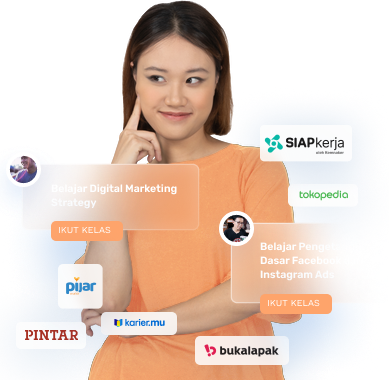
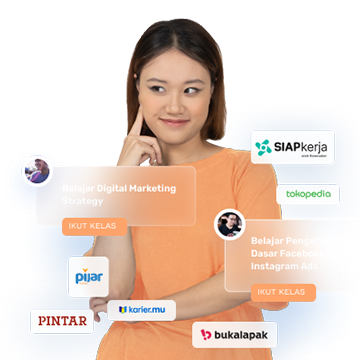
Kamis 8 Juni 2023

Changed region(s): [[0.0611, 0.0, 0.9472, 1.0], [0.0, 0.3972, 0.1528, 0.5194], [0.6111, 0.4583, 0.6417, 0.4889]]

diff --git a/components/section/ShortInfoB.tsx b/components/section/ShortInfoB.tsx
@@ -1,0 +1,96 @@
+import Image from "next/image";
+import Link from "next/link";
+
+import { FaWheelchair, FaCheckCircle } from "react-icons/fa";
+
+// Data
+const syaratMendaftar = [
+  {
+    id: 1,
+    text: "WNI berusia paling rendah 18 tahun dan paling tinggi 64 tahun.",
+  },
+  {
+    id: 2,
+    text: "Tidak sedang menempuh pendidikan formal.",
+  },
+  {
+    id: 3,
+    text: "Sedang mencari kerja, pekerja/buruh yang terkena PHK, atau pekerja/buruh yang membutuhkan peningkatan kompetensi kerja, seperti pekerja/buruh yang dirumahkan dan pekerja bukan penerima upah, termasuk pelaku usaha mikro & kecil.",
+  },
+  {
+    id: 4,
+    text: "Bukan Pejabat Negara, Pimpinan dan Anggota DPRD, Aparatur Sipil Negara, Prajurit TNI, Anggota Polri, Kepala Desa dan perangkat desa dan Direksi/Komisaris/Dewan Pengawas pada BUMN atau BUMD.",
+  },
+  {
+    id: 5,
+    text: "Maksimal 2 NIK dalam 1 KK yang menjadi Penerima Kartu Prakerja.",
+  },
+];
+
+const ShortInfoB = () => {
+  const items = syaratMendaftar;
+
+  return (
+    <section className="isolate z-20 -mt-8 rounded-tl-3xl rounded-tr-3xl bg-white px-6 py-16">
+      <div className="container mx-auto">
+        <div className="flex flex-col items-center justify-between gap-8 sm:flex-row">
+          {/* Right */}
+          <div className="w-full space-y-6 sm:w-5/12">
+            {/* # */}
+            <h2 className="h2">Tentang Kartu Prakerja</h2>
+            {/* # */}
+            <p className="pb-6">
+              Program Kartu Prakerja adalah program pengembangan kompetensi
+              kerja yang ditujukan untuk pencari kerja, pekerja terkena PHK,
+              dan/atau pekerja yang membutuhkan peningkatan kompetensi.
+            </p>
+            {/* # */}
+            <Link href="/" className="font-medium text-primary-400">
+              Pelajari Lebih Lanjut
+            </Link>
+            {/* # */}
+            <Image
+              src="/section-image-1.png"
+              alt="image"
+              width={401}
+              height={221}
+              className="w-full sm:w-4/5"
+            />
+            {/* # */}
+            <div className="relative rounded-3xl bg-primary-300 p-6 sm:p-8">
+              <p className="text-xs text-primary-500 sm:text-sm">
+                Program Kartu Prakerja merupakan program ramah difabel. Difabel
+                dianjurkan untuk mendaftar dan mengikuti Program Kartu Prakerja.
+              </p>
+              {/* ## */}
+              <div className="absolute -top-3 right-0 flex h-10 w-10 items-center justify-center rounded-full bg-primary-500">
+                <FaWheelchair className="text-2xl leading-none text-white" />
+              </div>
+            </div>
+          </div>
+          <div className="flex w-full flex-col gap-8 rounded-3xl bg-slate-100 p-6 sm:w-6/12 sm:px-9 sm:py-10">
+            <h3 className="h3 max-w-max border-b-4 border-primary-400">
+              Syarat Mendaftar
+            </h3>
+            <ul className="flex flex-col">
+              {items?.map((item) => (
+                <li
+                  key={item.id}
+                  className="relative border-l-2 border-dashed pb-3 pl-6 last-of-type:border-l-0"
+                >
+                  <FaCheckCircle className="absolute -left-2 mt-1 h-4 w-4 text-secondary-500" />
+                  <span className="text-sm sm:text-base">{item.text}</span>
+                </li>
+              ))}
+            </ul>
+            <Link href="/" className="btn btn-accent ml-0 sm:ml-auto">
+              Daftra Sekarang
+            </Link>
+          </div>
+        </div>
+      </div>
+    </section>
+  );
+};
+
+export default ShortInfoB;

diff --git a/components/section/HeroB.tsx b/components/section/HeroB.tsx
@@ -1,0 +1,66 @@
+import Image from "next/image";
+
+import { AiOutlineArrowRight } from "react-icons/ai";
+
+const HeroB = () => {
+  return (
+    <section className="isolate bg-[url(/bg-1.svg)] bg-cover bg-center bg-no-repeat px-6 max-sm:pt-10">
+      <div className="container relative flex min-h-screen flex-col items-center justify-center">
+        <div className="mx-auto flex w-full flex-col items-center text-center sm:w-2/4">
+          <h1 className="h1 text-4xl font-semibold text-white sm:text-5xl">
+            Gali potensi dirimu dengan Kartu Prakerja
+          </h1>
+          <p className="mt-6 text-white">
+            Galau cari kerja? Ingin lebih kompeten? Mau mengembangkan diri tanpa
+            pusing memikirkan biaya? Bekali dirimu dengan Kartu Prakerja dan
+            <span className="font-bold">#SiapDariSekarang</span>
+          </p>
+
+          {/* Form */}
+          <form className="relative z-20 mt-12 flex w-full flex-col rounded-full bg-white p-1 focus:shadow-lg sm:w-3/5">
+            <input
+              type="text"
+              placeholder="Masukkan e-mail kamu"
+              className="w-full rounded-full border-none bg-white/50 text-slate-500 placeholder-gray-500"
+            />
+            <button className="absolute right-0 top-1/2 z-10 mr-2 flex aspect-square -translate-y-1/2 items-center justify-center rounded-full bg-[#4f8fda] p-2 shadow hover:shadow-lg">
+              <AiOutlineArrowRight className="text-lg text-white" />
+            </button>
+          </form>
+          <span className="mb-6 mt-4 text-xs text-white sm:text-sm">
+            Masukkan e-mail untuk membuat akun Prakerja
+          </span>
+
+          {/* Image Center */}
+          <Image
+            src="/hero-female-img.png"
+            alt="image"
+            width={360}
+            height={360}
+            className="mb-8 flex h-auto w-full sm:hidden"
+          />
+
+          {/* Image Right */}
+          <Image
+            src="/hero-female-img.png"
+            alt="image"
+            width={360}
+            height={360}
+            className="absolute bottom-8 left-0 z-10 hidden h-auto w-1/3 sm:flex"
+          />
+
+          {/* Image Left */}
+          <Image
+            src="/hero-male-img.png"
+            alt="image"
+            width={360}
+            height={360}
+            className="absolute bottom-8 right-0 z-10 hidden h-auto w-1/3 sm:flex"
+          />
+        </div>
+      </div>
+    </section>
+  );
+};
+
+export default HeroB;

diff --git a/components/section/ShortInfo.tsx b/components/section/ShortInfo.tsx
@@ -32,11 +32,11 @@ const ShortInfo = () => {
   return (
     <section
       id="shortInfo"
-      className="rounded-tl-3xl rounded-tr-3xl bg-white px-6 py-20
+      className="relative isolate z-10 -mt-8 rounded-tl-3xl rounded-tr-3xl bg-white px-6 py-20
     "
     >
-      <div className="mx-auto flex max-w-6xl flex-col items-center gap-10 sm:flex-row sm:justify-between">
-        <div className="w-full flex-col space-y-4 sm:w-6/12">
+      <div className="container mx-auto grid sm:grid-cols-2">
+        <div className="w-full flex-col space-y-4">
           <h2 className="h2">Tentang Kartu Prakerja</h2>
           <p>
             Program Kartu Prakerja adalah program pengembangan kompetensi kerja
@@ -59,7 +59,7 @@ const ShortInfo = () => {
             </p>
           </div>
         </div>
-        <div className="flex w-screen flex-col rounded-3xl bg-[#f7f7f7]/80 p-8 sm:w-6/12">
+        <div className="relative flex w-screen flex-col rounded-3xl bg-[#f7f7f7]/80 p-8">
           <h3 className="h3 w-max border-b-[3px] border-[#4f8fda]">
             Syarat Mendaftar
           </h3>

diff --git a/components/section/Hero.tsx b/components/section/Hero.tsx
@@ -34,8 +34,8 @@ const Hero = () => {
             </span>
             <Image
               src="/hero-female-img.png"
-              width={400}
-              height={400}
+              width={360}
+              height={360}
               alt="image"
               className="mt-4 block h-auto w-full select-none sm:hidden"
             />
@@ -43,16 +43,16 @@ const Hero = () => {
           {/* ##### */}
           <Image
             src="/hero-female-img.png"
-            width={400}
-            height={400}
+            width={360}
+            height={360}
             alt="image"
             className="absolute bottom-0 left-0 hidden h-auto w-2/6 select-none sm:block"
           />
           {/* ##### */}
           <Image
             src="/hero-male-img.png"
-            width={400}
-            height={400}
+            width={360}
+            height={360}
             alt="image"
             className="absolute bottom-0 right-0 hidden h-auto w-2/6 select-none sm:block"
           />

diff --git a/tailwind.config.js b/tailwind.config.js
@@ -7,6 +7,32 @@ module.exports = {
   ],
   theme: {
     extend: {
+      colors: {
+        primary: {
+          50: "#fdf8f6",
+          100: "#f2e8e5",
+          200: "#eaddd7",
+          300: "#c5dff3",
+          400: "#4f8fda",
+          500: "#142b72",
+          600: "#a18072",
+          700: "#977669",
+          800: "#846358",
+          900: "#43302b",
+        },
+        secondary: {
+          50: "#fdf8f6",
+          100: "#f2e8e5",
+          200: "#eaddd7",
+          300: "#e0cec7",
+          400: "#d2bab0",
+          500: "#ff7d2a",
+          600: "#a18072",
+          700: "#977669",
+          800: "#846358",
+          900: "#43302b",
+        },
+      },
       backgroundImage: {
         "gradient-radial": "radial-gradient(var(--tw-gradient-stops))",
         "gradient-conic":

diff --git a/app/(site)/page.tsx b/app/(site)/page.tsx
@@ -1,17 +1,17 @@
 import Artikel from "@/components/section/Artikel";
 import FAQ from "@/components/section/FAQ";
-import Hero from "@/components/section/Hero";
+import HeroB from "@/components/section/HeroB";
 import IntroVideo from "@/components/section/IntroVideo";
 import Mitra from "@/components/section/Mitra";
 import Pakar from "@/components/section/Pakar";
 import Prosedur from "@/components/section/Prosedur";
-import ShortInfo from "@/components/section/ShortInfo";
+import ShortInfoB from "@/components/section/ShortInfoB";
 
 export default function Home() {
   return (
     <main>
-      <Hero />
-      <ShortInfo />
+      <HeroB />
+      <ShortInfoB />
       <IntroVideo />
       <Prosedur />
       <Mitra />

diff --git a/components/section/FAQ.tsx b/components/section/FAQ.tsx
@@ -37,9 +37,6 @@ const FAQ = () => {
                       enter="transition duration-500 ease-out"
                       enterFrom="transform scale-95 opacity-0 pt-0"
                       enterTo="transform scale-100 opacity-100 pt-4"
-                      // leave="transition duration-300 ease-out"
-                      // leaveFrom="transform scale-100 opacity-100"
-                      // leaveTo="transform scale-95 opacity-0"
                     >
                       <Disclosure.Panel>
                         <p className="text-sm opacity-90 sm:text-base">

diff --git a/app/layout.tsx b/app/layout.tsx
@@ -20,7 +20,9 @@ export default function RootLayout({
 }) {
   return (
     <html lang="en">
-      <body className={`${fontBody.className} text-base text-[#142b72]`}>
+      <body
+        className={`${fontBody.className} relative min-h-full text-base text-[#142b72]`}
+      >
         <Navbar />
         {children}
         <Footer />
